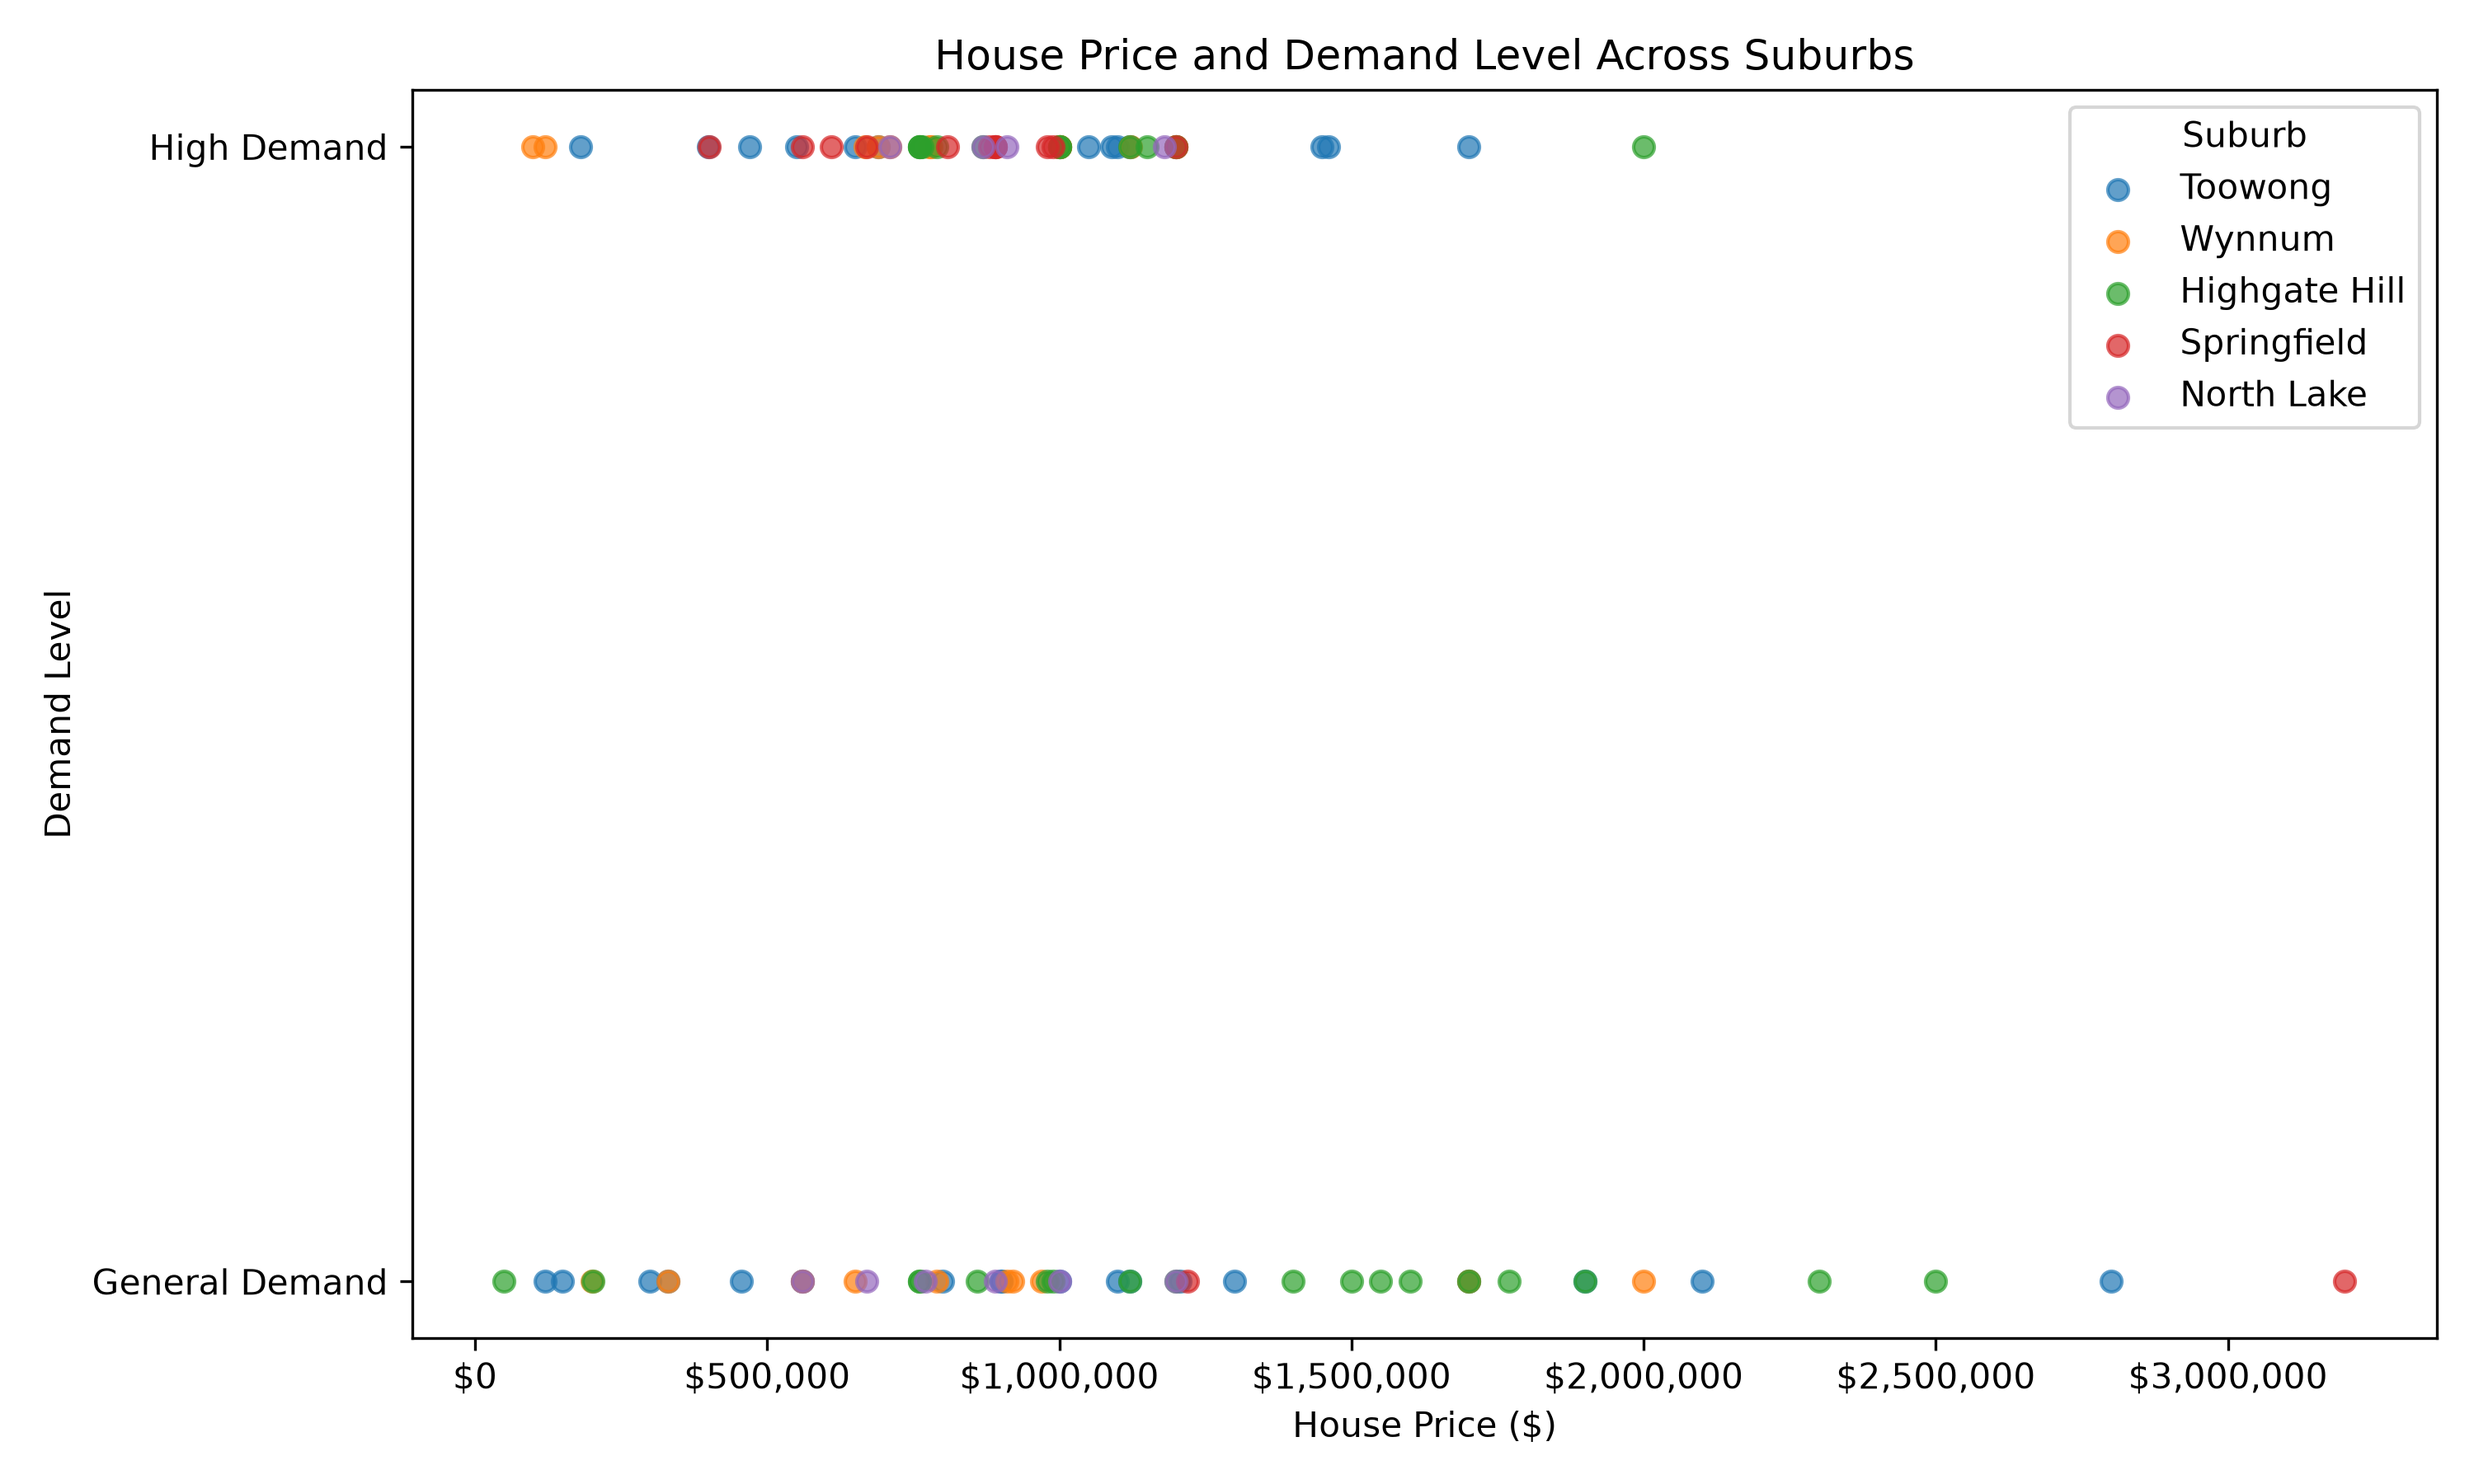
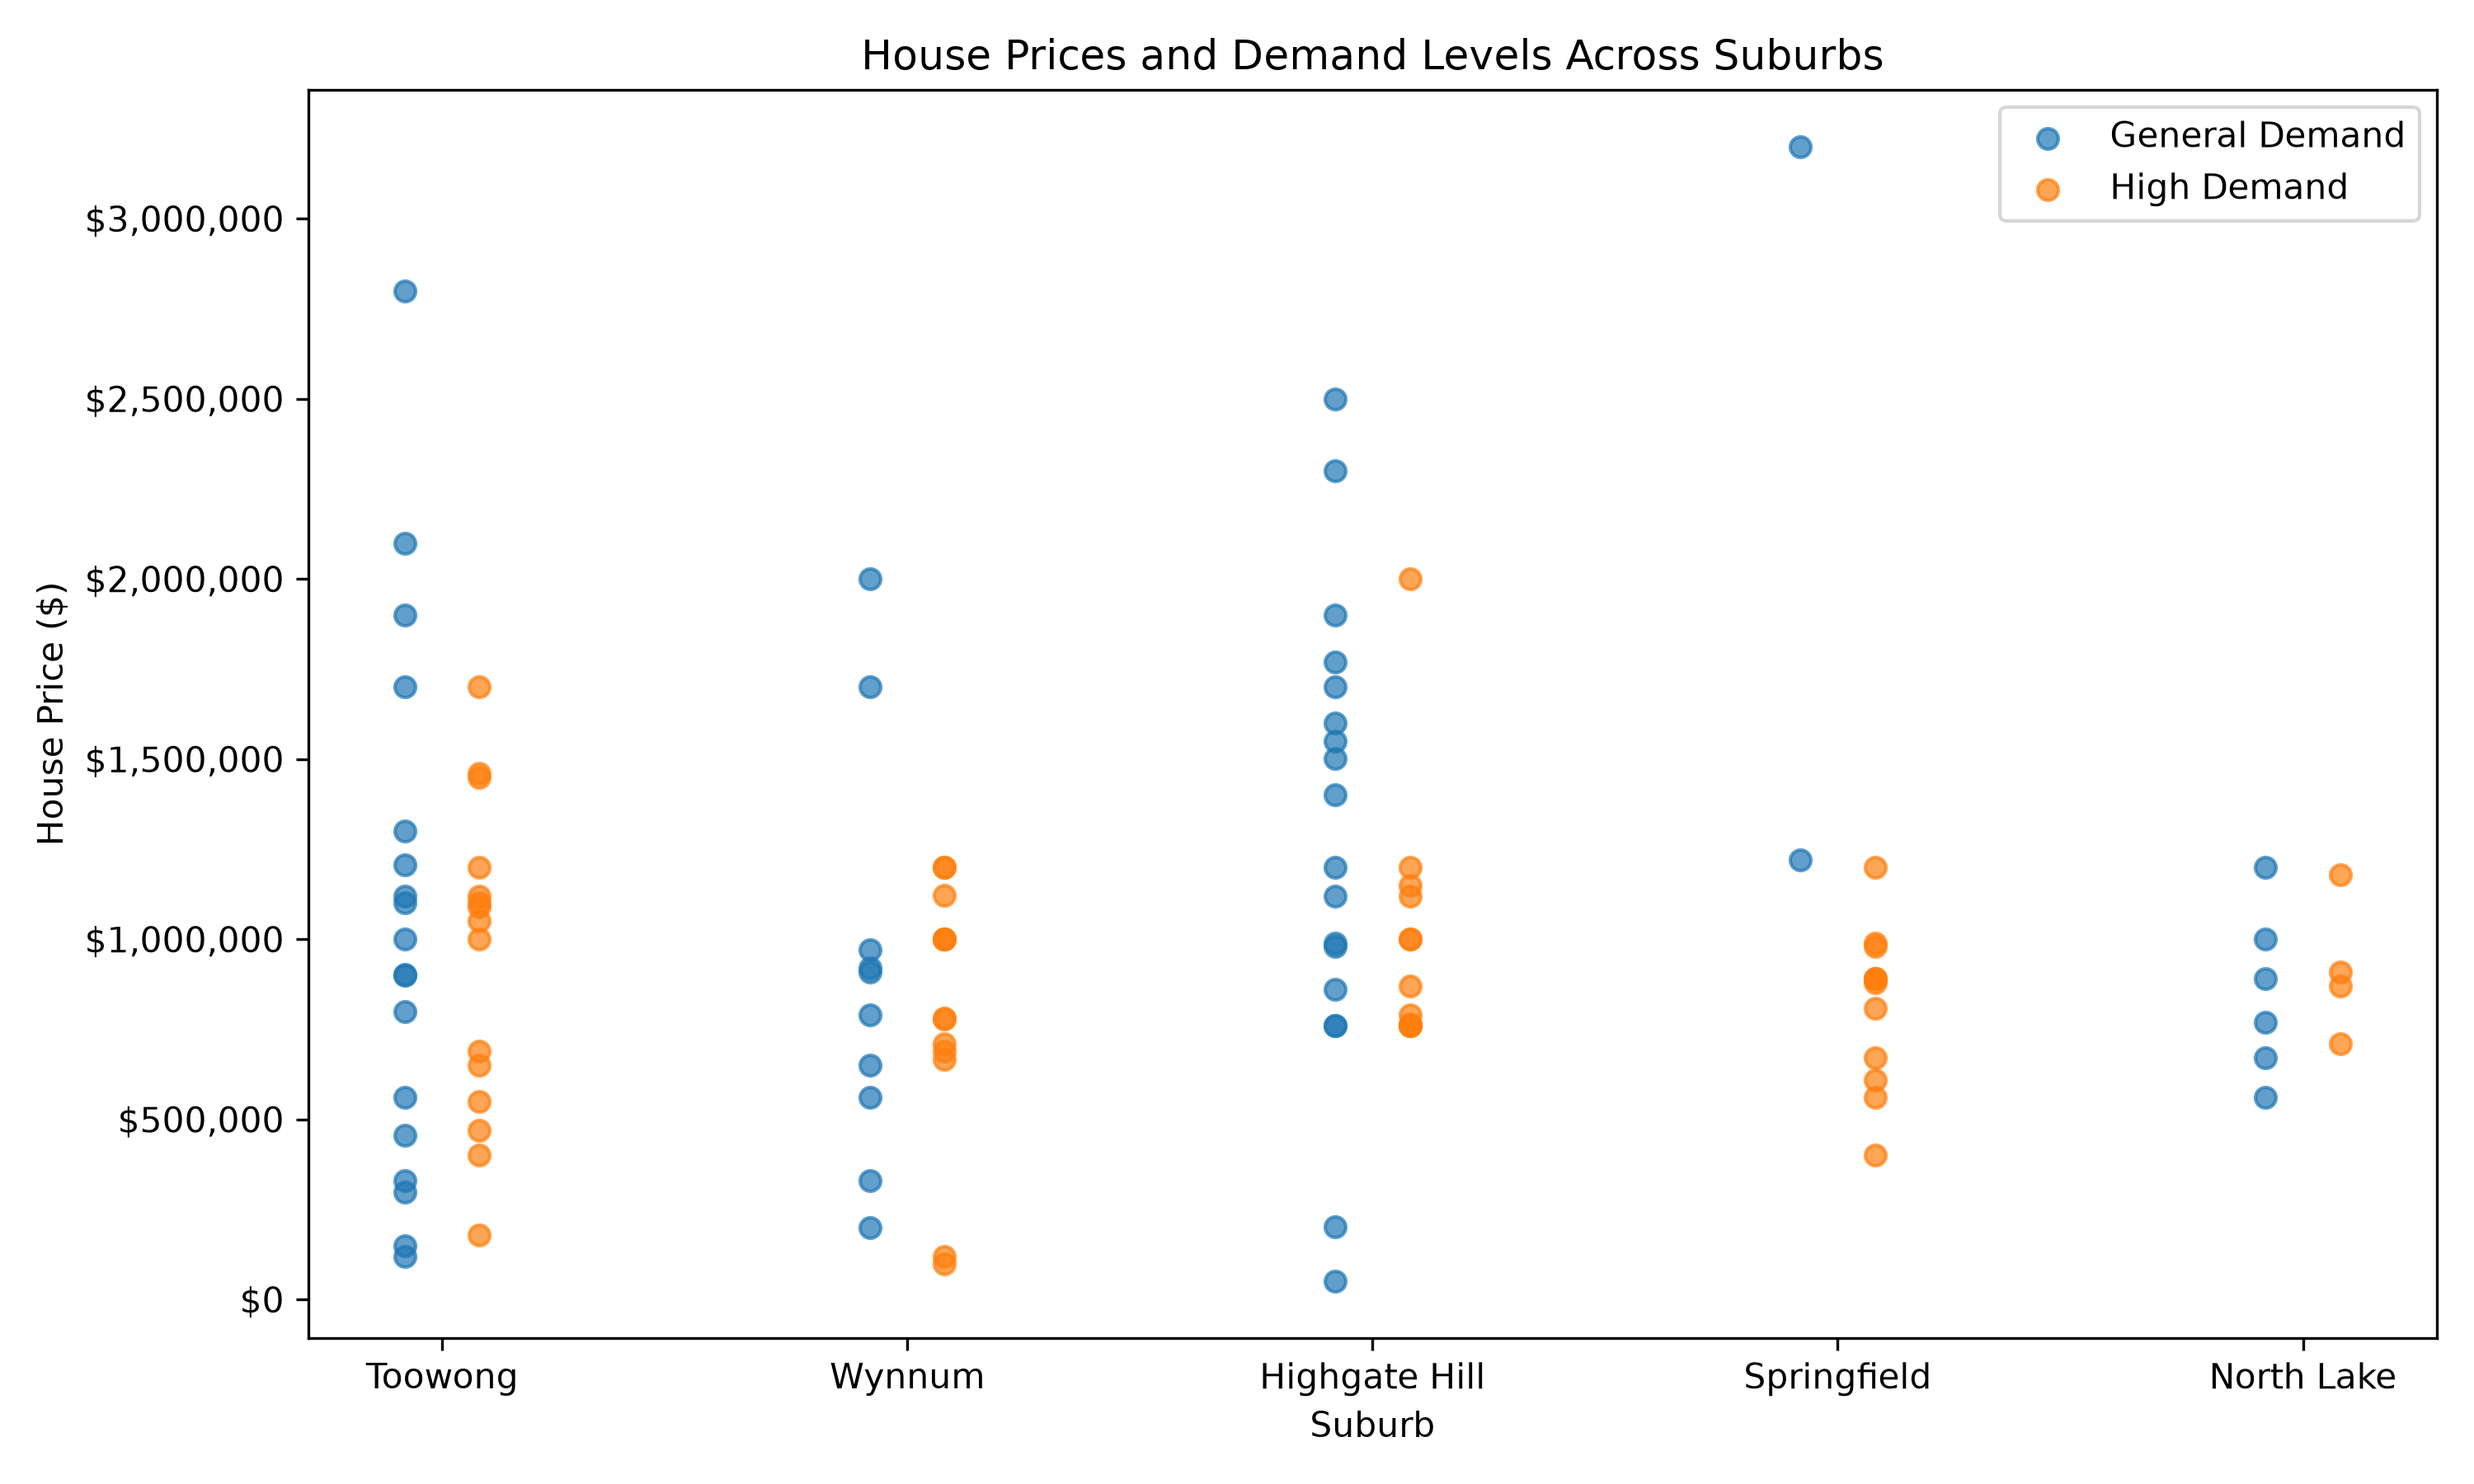
fix: improve suburb demand scatter plot

diff --git a/q1.py b/q1.py
@@ -304,54 +304,63 @@ def create_visualisations(data):
     plt.close()
 
     # -----------------------------------------------------------------------
-    # Scatter Plot - House Price and Demand Level Across Suburbs
+    # Scatter Plot - Price and Demand Across Suburbs
     # -----------------------------------------------------------------------
 
     plt.figure(figsize=(10, 6))
 
+    # Preserve the suburb order used in the assignment dataset.
     suburb_order = ["TW", "WM", "HH", "SF", "NL"]
 
-    suburb_names = {
-        "TW": "Toowong",
-        "WM": "Wynnum",
-        "HH": "Highgate Hill",
-        "SF": "Springfield",
-        "NL": "North Lake",
+    suburb_labels = [
+        "Toowong",
+        "Wynnum",
+        "Highgate Hill",
+        "Springfield",
+        "North Lake",
+    ]
+
+    # Convert suburb codes into numerical positions for the x-axis.
+    suburb_positions = {
+        suburb: index
+        for index, suburb in enumerate(suburb_order)
     }
 
-    # Convert the categorical demand values to numerical positions so they
-    # can be displayed on the scatter plot's y-axis.
-    demand_positions = {
-        "General": 0,
-        "High": 1,
+    # Slightly separate demand categories so overlapping points remain visible.
+    demand_offsets = {
+        "General": -0.08,
+        "High": 0.08,
     }
 
-    for suburb in suburb_order:
-        suburb_data = data[data["suburb"] == suburb]
+    for demand_level in ["General", "High"]:
+        demand_data = data[data["demand"] == demand_level]
 
-        y_positions = suburb_data["demand"].map(demand_positions)
+        x_positions = (
+            demand_data["suburb"].map(suburb_positions)
+            + demand_offsets[demand_level]
+        )
 
         plt.scatter(
-            suburb_data["price"],
-            y_positions,
-            label=suburb_names[suburb],
+            x_positions,
+            demand_data["price"],
+            label=f"{demand_level} Demand",
             alpha=0.7,
         )
 
-    plt.title("House Price and Demand Level Across Suburbs")
-    plt.xlabel("House Price ($)")
-    plt.ylabel("Demand Level")
+    plt.title("House Prices and Demand Levels Across Suburbs")
+    plt.xlabel("Suburb")
+    plt.ylabel("House Price ($)")
 
-    plt.yticks(
-        [0, 1],
-        ["General Demand", "High Demand"],
+    plt.xticks(
+        range(len(suburb_order)),
+        suburb_labels,
     )
 
-    plt.gca().xaxis.set_major_formatter(
+    plt.gca().yaxis.set_major_formatter(
         StrMethodFormatter("${x:,.0f}")
     )
 
-    plt.legend(title="Suburb")
+    plt.legend()
     plt.tight_layout()
 
     plt.savefig(
